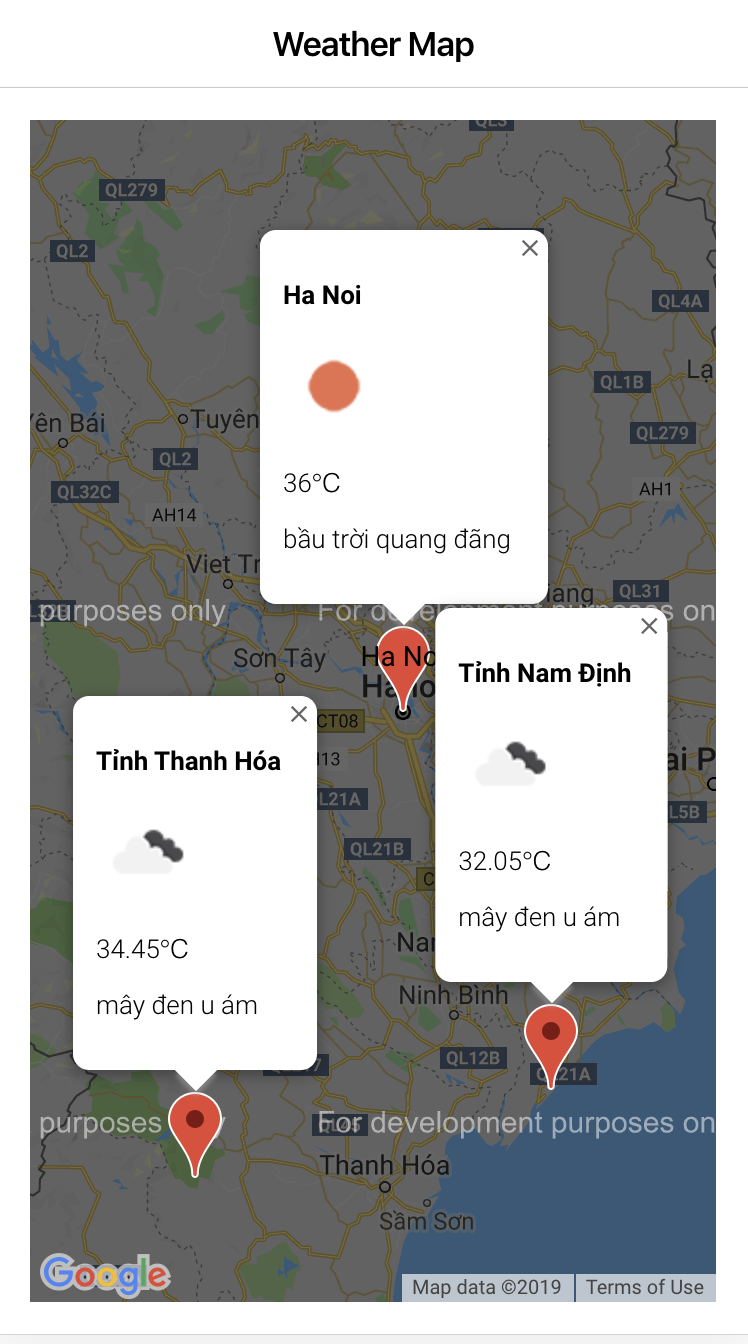
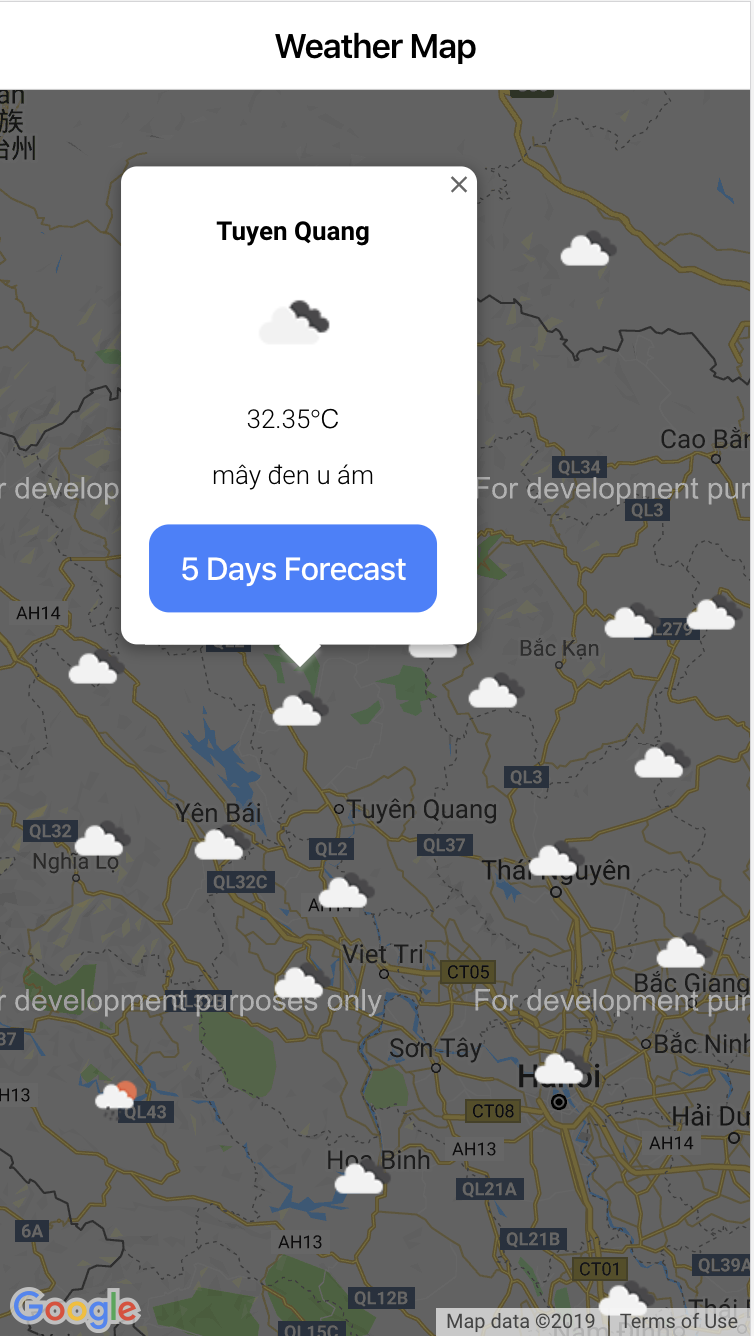
add weather forecast 5days for each location

diff --git a/src/app/pages/map/map.page.ts b/src/app/pages/map/map.page.ts
@@ -1,0 +1,79 @@
+import {AfterViewInit, Component, OnInit, ViewChild} from '@angular/core';
+import {MouseEvent} from '@agm/core';
+import {WeatherServiceService} from '../../service/weather-service.service';
+import {WeatherRespone} from '../../model/weather-respone';
+import {NavController} from '@ionic/angular';
+import {Router} from '@angular/router';
+
+@Component({
+  selector: 'app-map',
+  templateUrl: './map.page.html',
+  styleUrls: ['./map.page.scss'],
+})
+export class MapPage implements OnInit, AfterViewInit {
+
+  constructor(private weatherService: WeatherServiceService,
+              public navCtrl: NavController,
+              private router: Router) { }
+
+  // google maps zoom level
+  zoom = 8;
+
+  // initial center position for the map
+  lat = 21.028801;
+  lng = 105.8394643;
+
+  markers: Marker[] = [];
+
+  ngOnInit() {
+
+  }
+
+  ngAfterViewInit(): void {
+    if (navigator.geolocation) {
+      navigator.geolocation.getCurrentPosition(location => {
+        this.lat = location.coords.latitude;
+        this.lng = location.coords.longitude;
+        this.addMarker(this.lat, this.lng);
+      });
+    }
+  }
+
+  clickedMarker(label: string, index: number) {
+    console.log(`clicked the marker: ${label || index}`);
+  }
+
+  mapClicked($event: MouseEvent) {
+    this.addMarker($event.coords.lat, $event.coords.lng);
+  }
+
+  markerDragEnd(m: Marker, $event: MouseEvent) {
+    console.log('dragEnd', m, $event);
+  }
+
+  addMarker(lat: number, lng: number) {
+    const m: Marker = {} as Marker;
+    m.lng = lng;
+    m.lat = lat;
+    m.iconUrl = './assets/icon/marker.png';
+    this.weatherService.getCurrentWeatherByLatLon(m.lat, m.lng).subscribe((res: WeatherRespone) => {
+      m.weatherRes = res;
+      m.iconUrl = 'http://openweathermap.org/img/wn/' + res.weather[0].icon + '.png';
+    });
+    this.markers.push(m);
+  }
+
+  openFiveDayPage(lat: number, lng: number) {
+    this.router.navigateByUrl('/five-day-forecast/' + lat + '/' + lng);
+  }
+
+}
+
+interface Marker {
+  lat: number;
+  lng: number;
+  label?: string;
+  draggable: boolean;
+  weatherRes?: WeatherRespone;
+  iconUrl?: string;
+}

diff --git a/src/app/pages/five-day-forecast/five-day-forecast.page.ts b/src/app/pages/five-day-forecast/five-day-forecast.page.ts
@@ -1,0 +1,51 @@
+import { Component, OnInit } from '@angular/core';
+import {WeatherServiceService} from '../../service/weather-service.service';
+import {NavController} from '@ionic/angular';
+import {ActivatedRoute} from '@angular/router';
+import {ForeCastResponse, ListForeCast} from '../../model/weather-respone';
+import {from} from 'rxjs';
+import {flatMap, groupBy, map, mergeAll, mergeMap, toArray} from 'rxjs/operators';
+import {DatePipe} from '@angular/common';
+
+@Component({
+  selector: 'app-five-day-forecast',
+  templateUrl: './five-day-forecast.page.html',
+  styleUrls: ['./five-day-forecast.page.scss'],
+})
+export class FiveDayForecastPage implements OnInit {
+
+  constructor(private weatherService: WeatherServiceService,
+              public navCtrl: NavController,
+              private route: ActivatedRoute,
+              private datePipe: DatePipe) { }
+
+  lat = 0;
+  lng = 0;
+
+  forecastResponse: ForeCastResponse = {} as ForeCastResponse;
+  listForecast: ListForeCast[][] = [];
+  city = {};
+
+  ngOnInit() {
+    this.lat = + this.route.snapshot.paramMap.get('lat');
+    this.lng = + this.route.snapshot.paramMap.get('lng');
+
+    this.weatherService.getForeCastByLocation(this.lat, this.lng).pipe(
+        flatMap((item: ForeCastResponse) => {
+          this.city = item.city;
+          return item.list;
+        }),
+        map((item: ListForeCast) => {
+          item.dt_txt = this.datePipe.transform(item.dt * 1000, 'dd/MM/yyyy');
+          item.dt_time = this.datePipe.transform(item.dt * 1000, 'HH:mm');
+          return item;
+        }),
+        groupBy((item: ListForeCast) => item.dt_txt),
+        mergeMap(group => group.pipe(toArray()))
+    ).subscribe(res => {
+      console.log('hungnq9', res);
+      this.listForecast.push(res);
+    });
+  }
+
+}

diff --git a/src/app/pages/map/map.page.html b/src/app/pages/map/map.page.html
@@ -4,7 +4,7 @@
   </ion-toolbar>
 </ion-header>
 
-<ion-content padding>
+<ion-content>
   <agm-map
           [latitude]="lat"
           [longitude]="lng"
@@ -21,20 +21,23 @@
             [label]="m.label"
             [iconUrl]="
               {
-                url:'./assets/icon/marker.png',
+                url: m.iconUrl,
                 scaledSize: {
-                    width: 30,
-                    height: 30
+                    width: 40,
+                    height: 40
                 }
               }"
             [markerDraggable]="m.draggable"
             (dragEnd)="markerDragEnd(m, $event)">
 
       <agm-info-window>
-        <p class="title">{{m.weatherRes?.name}}</p>
-        <img src="http://openweathermap.org/img/wn/{{m.weatherRes?.weather[0].icon}}.png">
-        <p>{{m.weatherRes?.main.temp}}&#8451;</p>
-        <p>{{m.weatherRes?.weather[0].description}}</p>
+        <div class="infoContent">
+          <p class="title">{{m.weatherRes?.name}}</p>
+          <img src="{{m.iconUrl}}">
+          <p>{{m.weatherRes?.main.temp}}&#8451;</p>
+          <p>{{m.weatherRes?.weather[0].description}}</p>
+          <ion-button (click)="openFiveDayPage(m.lat, m.lng)" >5 Days Forecast</ion-button>
+          </div>
       </agm-info-window>
 
     </agm-marker>

diff --git a/src/app/model/weather-respone.ts b/src/app/model/weather-respone.ts
@@ -21,6 +21,7 @@ export interface Sys {
     country: string;
     sunrise: number;
     sunset: number;
+    pod: string;
 }
 
 export interface Clouds {
@@ -38,6 +39,9 @@ export interface Main {
     humidity: number;
     temp_min: number;
     temp_max: number;
+    sea_level: number;
+    grnd_level: number;
+    temp_kf: number;
 }
 
 export interface Weather {
@@ -51,3 +55,37 @@ export interface Coord {
     lon: number;
     lat: number;
 }
+
+
+export interface ForeCastResponse {
+    cod: string;
+    message: number;
+    cnt: number;
+    list: ListForeCast[];
+    city: City;
+}
+
+export interface City {
+    id: number;
+    name: string;
+    coord: Coord;
+    country: string;
+    timezone: number;
+}
+
+export interface ListForeCast {
+    dt: number;
+    main: Main;
+    weather: Weather[];
+    clouds: Clouds;
+    wind: Wind;
+    rain?: Rain;
+    sys: Sys;
+    dt_txt: string;
+    dt_time?: string;
+}
+
+export interface Rain {
+    '3h'?: number;
+}
+

diff --git a/src/app/pages/five-day-forecast/five-day-forecast.page.html b/src/app/pages/five-day-forecast/five-day-forecast.page.html
@@ -1,0 +1,27 @@
+<ion-header>
+  <ion-toolbar>
+    <ion-buttons slot="start">
+      <ion-back-button></ion-back-button>
+    </ion-buttons>
+    <ion-title>{{city?.name}}</ion-title>
+  </ion-toolbar>
+</ion-header>
+
+<ion-content>
+  <ion-card *ngFor="let item of listForecast; let i = index">
+    <ion-card-header style="font-weight: bold">{{item[0].dt_txt}}</ion-card-header>
+    <ion-card-content>
+      <div class="detailContent">
+        <div class="detailList">
+          <div class="detailItem" *ngFor="let f of item">
+            <p>{{f.dt_time}}</p>
+            <p style="width: 50px; height: 50px; margin: auto"
+            [ngStyle]="{'background-image': 'url(' + 'http://openweathermap.org/img/wn/' + f.weather[0].icon + '.png' + ')', 'background-size': 'cover'  }"></p>
+            <p>{{f.main.temp}}&#8451;</p>
+            <p>{{f.weather[0].description}}</p>
+          </div>
+        </div>
+      </div>
+    </ion-card-content>
+  </ion-card>
+</ion-content>

diff --git a/src/app/pages/five-day-forecast/five-day-forecast.page.spec.ts b/src/app/pages/five-day-forecast/five-day-forecast.page.spec.ts
@@ -1,0 +1,27 @@
+import { CUSTOM_ELEMENTS_SCHEMA } from '@angular/core';
+import { async, ComponentFixture, TestBed } from '@angular/core/testing';
+
+import { FiveDayForecastPage } from './five-day-forecast.page';
+
+describe('FiveDayForecastPage', () => {
+  let component: FiveDayForecastPage;
+  let fixture: ComponentFixture<FiveDayForecastPage>;
+
+  beforeEach(async(() => {
+    TestBed.configureTestingModule({
+      declarations: [ FiveDayForecastPage ],
+      schemas: [CUSTOM_ELEMENTS_SCHEMA],
+    })
+    .compileComponents();
+  }));
+
+  beforeEach(() => {
+    fixture = TestBed.createComponent(FiveDayForecastPage);
+    component = fixture.componentInstance;
+    fixture.detectChanges();
+  });
+
+  it('should create', () => {
+    expect(component).toBeTruthy();
+  });
+});

diff --git a/src/app/service/weather-service.service.ts b/src/app/service/weather-service.service.ts
@@ -11,6 +11,14 @@ export class WeatherServiceService {
   constructor(private httpClient: HttpClient) { }
 
   getCurrentWeatherByLatLon(lat: number, lon: number) {
-    return this.httpClient.get(this.baseUrl + 'weather?appid=413b4f3fe224ebb24c6466edb0bdc76b&units=metric&lang=vi&lat=' + lat + '&lon=' + lon);
+    return this.httpClient.get(this.baseUrl
+        + 'weather?appid=413b4f3fe224ebb24c6466edb0bdc76b&units=metric&lang=vi&lat='
+        + lat + '&lon=' + lon);
+  }
+
+  getForeCastByLocation(lat: number, lon: number) {
+    return this.httpClient.get(this.baseUrl
+        + 'forecast?appid=413b4f3fe224ebb24c6466edb0bdc76b&units=metric&lang=vi&lat='
+        + lat + '&lon=' + lon);
   }
 }

diff --git a/src/app/pages/five-day-forecast/five-day-forecast.module.ts b/src/app/pages/five-day-forecast/five-day-forecast.module.ts
@@ -1,0 +1,26 @@
+import { NgModule } from '@angular/core';
+import {CommonModule, DatePipe} from '@angular/common';
+import { FormsModule } from '@angular/forms';
+import { Routes, RouterModule } from '@angular/router';
+
+import { IonicModule } from '@ionic/angular';
+
+import { FiveDayForecastPage } from './five-day-forecast.page';
+
+const routes: Routes = [
+  {
+    path: '',
+    component: FiveDayForecastPage
+  }
+];
+
+@NgModule({
+  imports: [
+    CommonModule,
+    FormsModule,
+    IonicModule,
+    RouterModule.forChild(routes)
+  ],
+  declarations: [FiveDayForecastPage]
+})
+export class FiveDayForecastPageModule {}

diff --git a/src/app/app.module.ts b/src/app/app.module.ts
@@ -10,6 +10,7 @@ import { AppRoutingModule } from './app-routing.module';
 import { AppComponent } from './app.component';
 import {HttpClientModule} from '@angular/common/http';
 import {AgmCoreModule} from '@agm/core';
+import {DatePipe} from '@angular/common';
 
 @NgModule({
   declarations: [AppComponent],
@@ -24,7 +25,8 @@ import {AgmCoreModule} from '@agm/core';
   providers: [
     StatusBar,
     SplashScreen,
-    { provide: RouteReuseStrategy, useClass: IonicRouteStrategy }
+    { provide: RouteReuseStrategy, useClass: IonicRouteStrategy },
+    DatePipe
   ],
   bootstrap: [AppComponent]
 })

diff --git a/src/app/app-routing.module.ts b/src/app/app-routing.module.ts
@@ -2,7 +2,8 @@ import { NgModule } from '@angular/core';
 import { PreloadAllModules, RouterModule, Routes } from '@angular/router';
 
 const routes: Routes = [
-  { path: '', loadChildren: './map/map.module#MapPageModule' }
+  { path: '', loadChildren: './pages/map/map.module#MapPageModule' },
+  { path: 'five-day-forecast/:lat/:lng', loadChildren: './pages/five-day-forecast/five-day-forecast.module#FiveDayForecastPageModule' }
 ];
 @NgModule({
   imports: [

diff --git a/src/index.html b/src/index.html
@@ -5,7 +5,7 @@
   <meta charset="utf-8" />
   <title>Ionic App</title>
 
-  <base href="/" />
+  <base href="." />
 
   <meta name="viewport" content="viewport-fit=cover, width=device-width, initial-scale=1.0, minimum-scale=1.0, maximum-scale=1.0, user-scalable=no" />
   <meta name="format-detection" content="telephone=no" />

diff --git a/src/app/pages/five-day-forecast/five-day-forecast.page.scss b/src/app/pages/five-day-forecast/five-day-forecast.page.scss
@@ -1,0 +1,13 @@
+.detailContent {
+  overflow-x: scroll;
+  overflow-y: hidden;
+  .detailList {
+    height: 100%;
+    white-space: nowrap;
+    .detailItem {
+      display: inline-block;
+      margin: 5px 20px;
+      text-align: center;
+    }
+  }
+}
